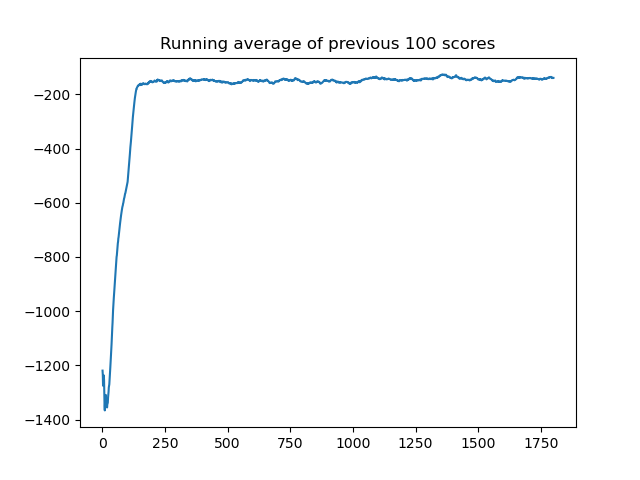
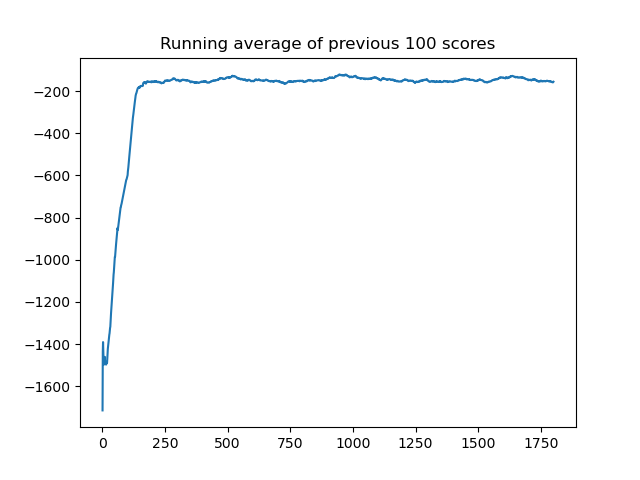
- PPO algo rebuild - SAC algo rebuild - test on pendulum-v1

diff --git a/algorithms/SAC/sac_gym.py b/algorithms/SAC/sac_gym.py
@@ -1,8 +1,9 @@
 import os
 import numpy as np
 import gymnasium as gym
-from gymnasium.wrappers import RecordVideo
+import time
 
+from gymnasium.wrappers import RecordVideo
 from agent import Agent
 from utils import plot_learning_curve
 
@@ -13,8 +14,8 @@ if __name__ == '__main__':
     
     # 2. SET UP AGENT SETTINGS
     agent = Agent(
-        alpha=3e-4,              # Actor learning rate
-        beta=3e-4,               # Critic learning rate  
+        alpha=0.0009,              # Actor learning rate
+        beta=0.0009,               # Critic learning rate  
         input_dims=[3],          # Observation space: [cos(θ), sin(θ), angular_velocity]
         tau=0.005,               # Polyak averaging factor
         env=env,                 # Environment (needed for action space)
@@ -25,17 +26,18 @@ if __name__ == '__main__':
         layer1_size=256,         # Hidden layer 1
         layer2_size=256,         # Hidden layer 2
         batch_size=256,          # Training batch size
-        reward_scale=1.0,        # Reward scaling
-        target_entropy=-0.5,     # Target entropy for exploration
-        alpha_lr=1e-4,           # Temperature learning rate
+        reward_scale=1,        # Reward scaling
+        target_entropy=-0.2,     # Target entropy for exploration
+        alpha_lr=0.0009,           # Temperature learning rate
         policy_type="normal"     # Gaussian policy for continuous control
     )
     
     # 3. TRAIN THE AGENT
-    n_games = 1800
+    n_games = 3600
     steps = 0
     score_history = []
     best_score = -np.inf
+    start_time = time.time()
     
     print("Starting SAC training...")
     
@@ -53,7 +55,7 @@ if __name__ == '__main__':
             agent.remember(observation, action, reward, observation_, done)
             
             # Start learning after sufficient experience
-            if agent.memory.mem_cntr > 2100:
+            if agent.memory.mem_cntr > 256 and steps % 3 == 0:
                 agent.learn()
                 
             score += reward
@@ -69,13 +71,24 @@ if __name__ == '__main__':
 
         if i % 5 == 0:
             progress = i / n_games * 100
-            print(f'[{progress:5.1f}%] Ep {i:3d}: Score {score:6.1f} | Avg {avg_score:6.1f} | Total Steps {steps:5d}')
+            elapsed_time = time.time() - start_time
+            steps_per_min = (steps / elapsed_time) * 60 if elapsed_time > 0 else 0
+            print(f'[{progress:5.1f}%] Ep {i:3d}: Score {score:6.1f} | Avg {avg_score:6.1f} | Steps {steps:7d} | {steps_per_min:,.0f} steps/min | Device: {agent.actor.device}') 
     
-    print(f"Training completed! Final average score: {avg_score:.1f}")
-    
-    # 4. SAVE FINAL MODEL
-    agent.save_models()
-    print("Final model saved!")
+    #4. PRINT SUMMARY
+    total_time_min = (time.time() - start_time) / 60
+    avg_steps_per_min = steps / total_time_min if total_time_min > 0 else 0
+    print("\n" + "="*60)
+    print("🎉 TRAINING COMPLETED! 🎉")
+    print("="*60)
+    print(f"Final Average Score:  {avg_score:7.1f}")
+    print(f"Best Average Score:   {best_score:7.1f}")
+    print(f"Total Episodes:       {n_games:7d}")
+    print(f"Total Steps:          {steps:7d}")
+    print(f"Training Time:        {total_time_min:7.1f} min")
+    print(f"Avg Steps/Min:        {avg_steps_per_min:7,.0f}")
+    print(f"✓ Best model saved")
+    print("="*60 + "\n")
     
     # 5. VISUALIZE TRAINING CURVE
     filename = f'{env_id}_{n_games}games_scale{agent.scale}_final.png'

diff --git a/algorithms/PPO/ppo_gym.py b/algorithms/PPO/ppo_gym.py
@@ -1,6 +1,7 @@
 import gymnasium as gym
 import numpy as np
 import torch
+import time
 
 from agent import Agent
 
@@ -22,18 +23,23 @@ if __name__ == '__main__':
     np.random.seed(random_seed)
     env = gym.make(env_id)
     
-    N = 2048
-    batch_size = 64
-    n_epochs = 10
-    learning_rate = 0.0003
+    N = 512
     max_action = env.action_space.high[0]
     
-    agent = Agent(n_actions=env.action_space.shape[0], batch_size=batch_size,
-                  learning_rate=learning_rate, n_epochs=n_epochs,
-                  input_dims=env.observation_space.shape)
+    agent = Agent(
+          n_actions=env.action_space.shape[0], 
+          batch_size=128,
+          learning_rate=0.001, 
+          n_epochs=18,
+          input_dims=env.observation_space.shape,
+          fc1_dims=256, 
+          fc2_dims=256  
+    )
 
     score_history = []
-    max_steps = 300_000
+    best_score = -np.inf
+    start_time = time.time()
+    max_steps = 600_000
     total_steps = 0
     traj_length = 0
     episode = 1
@@ -47,19 +53,29 @@ if __name__ == '__main__':
         while not (done or truncated):
             action, prob = agent.choose_action(observation)
             act = action_adapter(action, max_action)
+
             observation_, reward, done, truncated, info = env.step(act)
-            r = clip_reward(reward)
+
+            r = reward
             total_steps += 1
             traj_length += 1
             score += reward
-            agent.remember(observation, observation_, action,
-                           prob, r, done or truncated)
+            agent.remember(observation, observation_, action, prob, r, done or truncated)
             if traj_length % N == 0:
                 agent.learn()
                 traj_length = 0
             observation = observation_
+        
         score_history.append(score)
         avg_score = np.mean(score_history[-100:])
-        print('{} Episode {} total steps {} avg score {:.1f}'.
-              format(env_id, episode, total_steps, avg_score))
+        progress = (total_steps / max_steps) * 100
+        elapsed_time = time.time() - start_time
+        steps_per_sec = total_steps / elapsed_time if elapsed_time > 0 else 0
+        print(f'[{progress:5.1f}%] Ep {episode:3d}: Score {score:6.1f} | Avg {avg_score:6.1f} | Total Steps {total_steps:6d} | {steps_per_sec:.0f} steps/s')
+        
+        if avg_score > best_score:
+            best_score = avg_score
+            agent.save_models()
+            print(f"  ✓ New best avg: {avg_score:.1f}, models saved")
+        
         episode += 1

diff --git a/algorithms/PPO/networks.py b/algorithms/PPO/networks.py
@@ -3,14 +3,20 @@ import torch as T
 import torch.nn as nn
 import torch.nn.functional as F
 import torch.optim as optim
-from torch.distributions import Beta, Categorical, Dirichlet
+from torch.distributions import Beta, Normal, Dirichlet
 
 ########################
 ### Actor for Policy ###
 ########################
 class ContinuousActorNetwork(nn.Module):
-    def __init__(self, n_actions, input_dims, learning_rate,
-                 fc1_dims=128, fc2_dims=128, chkpt_dir='models/'):
+    def __init__(self, 
+                 n_actions, 
+                 input_dims, 
+                 learning_rate, 
+                 fc1_dims=128, 
+                 fc2_dims=128, 
+                 chkpt_dir='models/'
+                 ):
         super(ContinuousActorNetwork, self).__init__()
         self.checkpoint_file = os.path.join(chkpt_dir, 'actor_continuous_ppo')
         
@@ -56,8 +62,13 @@ class ContinuousActorNetwork(nn.Module):
 ### Critic for Value Function ###
 #################################
 class ContinuousCriticNetwork(nn.Module):
-    def __init__(self, input_dims, learning_rate,
-                 fc1_dims=128, fc2_dims=128, chkpt_dir='models/'):
+    def __init__(self, 
+                 input_dims, 
+                 learning_rate, 
+                 fc1_dims=128, 
+                 fc2_dims=128, 
+                 chkpt_dir='models/'
+                 ):
         super(ContinuousCriticNetwork, self).__init__()
         self.checkpoint_file = os.path.join(chkpt_dir, 'critic_continuous_ppo')
         self.fc1 = nn.Linear(*input_dims, fc1_dims)

diff --git a/algorithms/PPO/agent.py b/algorithms/PPO/agent.py
@@ -5,15 +5,25 @@ from networks import ContinuousActorNetwork, ContinuousCriticNetwork
 
 
 class Agent:
-    def __init__(self, n_actions, input_dims, gamma=0.99, learning_rate=3e-4,
-                 gae_lambda=0.95, policy_clip=0.2, batch_size=64, n_epochs=10):
+    def __init__(self, 
+                 n_actions, 
+                 input_dims, 
+                 gamma=0.99, 
+                 learning_rate=3e-4,
+                 gae_lambda=0.95, 
+                 policy_clip=0.2, 
+                 batch_size=64, 
+                 n_epochs=10,
+                 fc1_dims=128,
+                 fc2_dims=128
+                 ):
         self.gamma = gamma
         self.policy_clip = policy_clip
         self.n_epochs = n_epochs
         self.gae_lambda = gae_lambda
         self.entropy_coefficient = 1e-3
-        self.actor = ContinuousActorNetwork(n_actions, input_dims, learning_rate)
-        self.critic = ContinuousCriticNetwork(input_dims, learning_rate)
+        self.actor = ContinuousActorNetwork(n_actions, input_dims, learning_rate, fc1_dims, fc2_dims)
+        self.critic = ContinuousCriticNetwork(input_dims, learning_rate, fc1_dims, fc2_dims)
         self.memory = PPOMemory(batch_size)
 
     def remember(self, state, state_, action, probs, reward, done):
